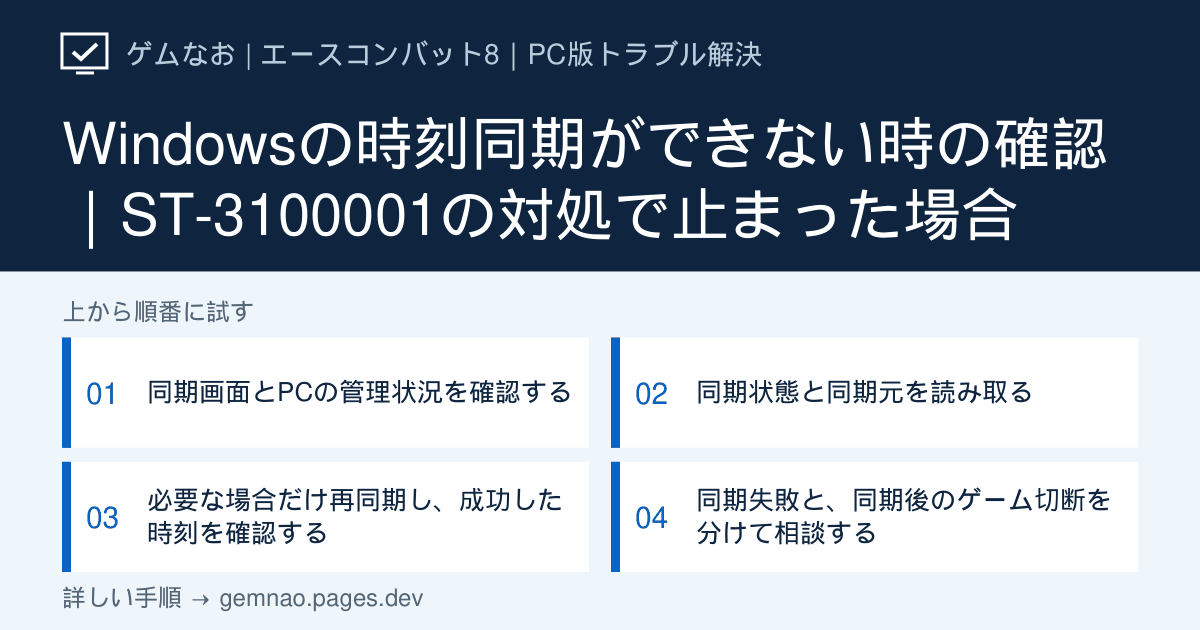
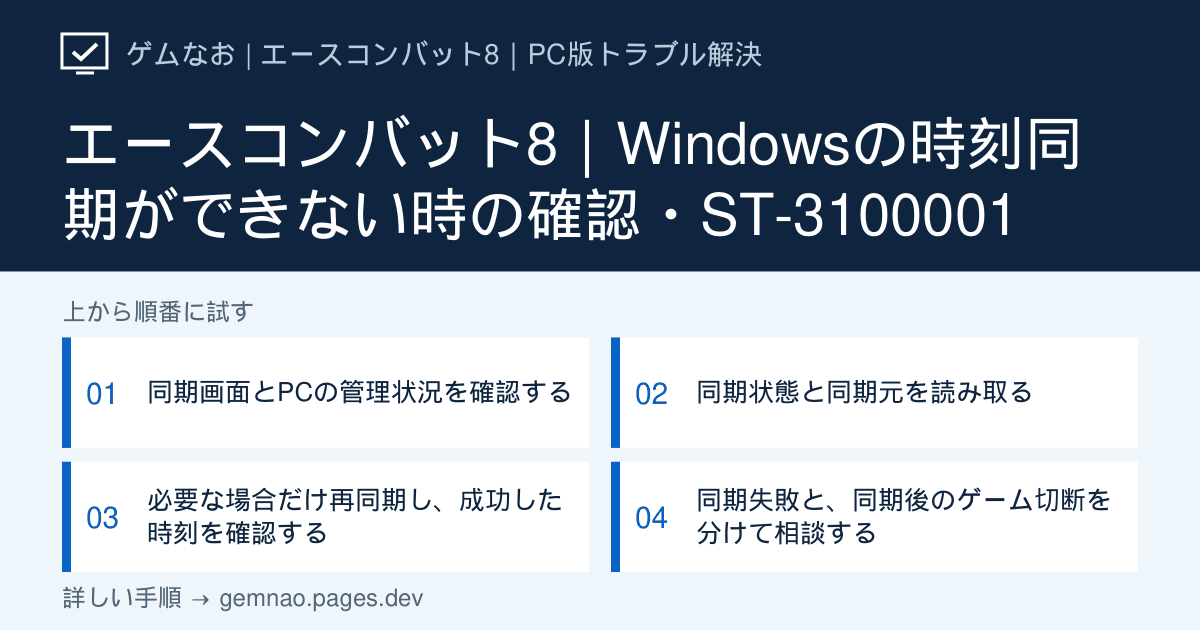
Clarify AC8 titles, surface recent guides, and correct Windows 10 summary
Add the game name to two Japanese ST-3100001 follow-up titles and OG cards.
Show three recently updated guides beside home search with locale-safe links.
Exclude unknown Windows 10 support from roundup summaries and reconcile
October OS notes with current Steam listings.

Changed region(s): [[0.0308, 0.181, 0.925, 0.2714], [0.0308, 0.3016, 0.8633, 0.3921]]

diff --git a/lib/release-roundups.ts b/lib/release-roundups.ts
@@ -50,8 +50,8 @@ export const releaseRoundups: ReleaseRoundup[] = [
     shortTitle: '2026年10月の新作',
     description:
       '2026年10月に発売・サービス開始する新作PCゲーム11本の動作環境を1つの表に整理。レイトレーシング対応GPU、Windows 11、TPM 2.0など「起動できない」原因になる必須条件と、GTX 1660・Windows 10で遊べるかの目安をまとめました。',
-    lead: '発売日に「起動しない」と困らないように、購入前に確認したい必須条件をまとめました。',
-    checkedAt: '2026-10-03',
+    lead: '発売日に「起動しない」と困らないように、購入前に確認したい必須条件をまとめました。10月13日はテイルズとステューピッドのOS表記を再確認しました。',
+    checkedAt: '2026-10-13',
     games: [
       {
         name: '真・三國無双２ with 猛将伝 Remastered',
@@ -183,9 +183,9 @@ export const releaseRoundups: ReleaseRoundup[] = [
         spec: { gpu: ['gtx-650-ti'], ramGb: 4, windows11: true },
         gtx1660: 'yes',
         gtx1660Note: '最低環境のGTX 650 Tiより上',
-        win10: 'partial',
+        win10: 'unknown',
         win10Note:
-          '動作環境の表記はWindows 11。DirectX 12にはWindows 10（1809以降）とVRAM 4GB以上が必要との注記あり',
+          '最低・推奨OSはWindows 11。一方、推奨欄のDX12注記はWindows 10（1809以降）とVRAM 4GB以上。表記が一致しないためWindows 10対応は未確認。購入前に販売元へ確認（10月13日確認）',
         article: {
           href: '/games/tales-of-eternia-remastered/not-launching',
           label: '起動しない・DirectX 12とVRAMの確認',
@@ -195,16 +195,16 @@ export const releaseRoundups: ReleaseRoundup[] = [
       {
         name: 'ステューピッド・ネバー・ダイズ',
         date: '10月22日',
-        os: '記載なし（推奨はWindows 11）',
+        os: 'Windows 11（最低・推奨）',
         minGpu: 'GTX 1070・RTX 3050・RX 580（8GB）',
         memory: '16GB',
-        storage: '記載なし',
-        must: ['VRAM 8GB'],
-        spec: { gpu: ['gtx-1070'], vramGb: 8, ramGb: 16 },
+        storage: '22GB',
+        must: ['VRAM 8GB', 'Windows 11'],
+        spec: { gpu: ['gtx-1070'], vramGb: 8, ramGb: 16, windows11: true },
         gtx1660: 'no',
         gtx1660Note: '最低環境のGPUはVRAM 8GBで、GTX 1660（6GB）は下回る',
-        win10: 'unknown',
-        win10Note: '最低環境のOSは記載なし',
+        win10: 'no',
+        win10Note: 'Steamの最低・推奨OSはWindows 11。Windows 10は掲載された最低OSを満たさない（10月13日確認）',
         source: steam('3486530'),
       },
       {
@@ -276,7 +276,7 @@ export const releaseRoundups: ReleaseRoundup[] = [
       {
         question: 'Windows 10で遊べる10月の新作はどれですか？',
         answer:
-          '動作環境の表記上、Windows 10で遊べるのはAION2、Gears of War: E-Day（22H2以降）、Call of Duty: Modern Warfare 4（22H2以降で、TPM 2.0とセキュアブートが必要）、Phantom Blade Zero（64bit）です。ほかの多くはWindows 11と記載されています。',
+          '最低OSにWindows 10の記載があるのはAION2、Gears of War: E-Day（22H2以降）、Call of Duty: Modern Warfare 4（22H2以降で、TPM 2.0とセキュアブートが必要）、Phantom Blade Zero（64bit）です。OS表記だけで動作を保証するものではありません。テイルズはOS欄とDX12注記が一致せず、Windows 10対応は未確認。ステューピッド・ネバー・ダイズは最低・推奨OSがWindows 11です。',
       },
       {
         question:

diff --git a/app/new-releases/[slug]/page.tsx b/app/new-releases/[slug]/page.tsx
@@ -74,7 +74,10 @@ export default async function Page({
   const path = `/new-releases/${slug}`;
   const canonical = `https://gemnao.pages.dev${path}`;
   const blocked1660 = roundup.games.filter((game) => game.gtx1660 === 'no');
-  const win10 = roundup.games.filter((game) => game.win10 !== 'no');
+  const win10 = roundup.games.filter(
+    (game) => game.win10 === 'yes' || game.win10 === 'partial',
+  );
+  const win10Unknown = roundup.games.filter((game) => game.win10 === 'unknown');
   const special = roundup.games.filter((game) =>
     game.must.some((item) => SPECIAL.test(item)),
   );
@@ -170,9 +173,13 @@ export default async function Page({
                 <dd>{blocked1660.map((game) => game.name).join('、')}</dd>
               </div>
               <div>
-                <dt>Windows 10で遊べる（条件付きを含む）</dt>
+                <dt>最低OSにWindows 10の記載あり（追加条件は表で確認）</dt>
                 <dd>{win10.map((game) => game.name).join('、')}</dd>
               </div>
+              {win10Unknown.length > 0 && <div>
+                <dt>Windows 10対応を確認できない</dt>
+                <dd>{win10Unknown.map((game) => game.name).join('、')}。未記載や表記の不一致は対応の根拠にできません。</dd>
+              </div>}
               <div>
                 <dt>特別な必須条件がある</dt>
                 <dd>
@@ -252,7 +259,7 @@ export default async function Page({
           >
             <h2 id="fit-title">GTX 1660・Windows 10で遊べる？（目安）</h2>
             <p>
-              ○＝最低環境を満たす目安、△＝条件付き、×＝満たさない、？＝記載なし。GPUは、最低環境のGPUとの世代・VRAMを編集部が比べた目安です。快適に遊べるかは推奨環境も確認してください。「あなたのPC」は
+              ○＝最低環境を満たす目安、△＝条件付き、×＝満たさない、？＝未確認（未記載・表記の不一致を含む）。OSの記載は動作保証ではありません。GPUは、最低環境のGPUとの世代・VRAMを編集部が比べた目安です。快適に遊べるかは推奨環境も確認してください。「あなたのPC」は
               <a href="/my#my-pc">マイPC</a>
               に登録したGPU・メモリ・Windowsで判定します（GPUの性能は目安。TPMやSSDなどは表の必須条件を確認してください）。
             </p>

diff --git a/lib/followups/connection.ts b/lib/followups/connection.ts
@@ -39,10 +39,10 @@ export const connectionGuide: FollowupGuide = {
   copy: {
     ja: {
       title:
-        'ST-3100001が時刻同期後も出る時は？回線・公式告知・発生場面の切り分け',
-      shortTitle: '時刻同期後も接続が切れる',
+        'エースコンバット8｜時刻同期後もST-3100001が出る時の回線・公式告知の確認',
+      shortTitle: 'エースコンバット8・時刻同期後も接続が切れる',
       description:
-        'ACE COMBAT 8でWindows時刻同期後も接続が切れる場合、ロビー・試合・結果画面を区別。日付付きの公式告知、別端末、有線とWi-Fiの比較から次の確認先を絞ります。',
+        'エースコンバット8でWindows時刻同期後もST-3100001や切断が続く場合、ロビー・試合・結果画面を区別。日付付きの公式告知、別端末、有線とWi-Fiの比較から次の確認先を絞ります。',
       lead: 'Windowsの時刻同期成功を確認しても、ACE COMBAT ONLINEでST-3100001や切断が続く場合向けです。アプリ自体が終了するクラッシュ、Windowsの同期自体の失敗は別に確認します。',
       summary:
         '発生場面と時刻を記録し、該当する最新の公式告知を確認します。次に同じ回線の別端末や有線接続と比べ、ゲームだけ・このPCだけ・回線全体のどこまで影響するかを整理してください。ゲームだけ失敗してもサーバー障害とは断定できず、告知がないことも正常の証明にはなりません。',

diff --git a/components/localized-home.tsx b/components/localized-home.tsx
@@ -1,5 +1,6 @@
 import { ContinueNotes } from './continue-notes';
 import { EnglishHomeSearch } from './english-home-search';
+import { LatestArticles } from './latest-articles';
 /* oxlint-disable next/no-html-link-for-pages -- Native links avoid a vinext client-link runtime issue. */
 import { ArrowRight, ChevronRight, Wrench } from 'lucide-react';
 import { gearGuidesEn } from '@/lib/localized/gear-guides-en';
@@ -51,6 +52,18 @@ export function LocalizedHome({ locale }: { locale: Locale }) {
         ...gearGuidesEn.map(guide => ({href: `/en/gear/${guide.slug}`, title: guide.title, label: 'Before you buy', body: guide.description || ''})),
         {href: '/en/tools/windows-diagnosis', title: 'Windows game diagnosis: instructions and download', label: 'Windows prototype', body: 'Game launch, crash, black screen, freeze, low FPS and stutter. Windows 11 x64.'},
       ]} />}
+      <LatestArticles locale={locale} articles={[...articles]
+        .sort((a, b) => b.checkedAt.localeCompare(a.checkedAt))
+        .slice(0, 3)
+        .map(article => ({
+          href: article.gameSlug === 'discord'
+            ? `/${locale}/discord/${article.slug}`
+            : `/${locale}/games/${article.gameSlug}/${article.slug}`,
+          title: article.title,
+          checkedAt: article.checkedAt,
+          label: article.gameSlug === 'discord' ? 'Discord'
+            : article.gameName || gameFacts[article.gameSlug].names[locale],
+        }))} />
       <ContinueNotes locale={locale} />
       <div className="content home-my-shortcut">
         <MyGamesHomeEntry locale={locale} />

diff --git a/lib/followups/time-sync.ts b/lib/followups/time-sync.ts
@@ -30,10 +30,10 @@ export const timeSyncGuide: FollowupGuide = {
   copy: {
     ja: {
       title:
-        'Windowsの時刻同期ができない時の確認｜ST-3100001の対処で止まった場合',
-      shortTitle: 'Windowsの時刻同期に失敗',
+        'エースコンバット8｜Windowsの時刻同期ができない時の確認・ST-3100001',
+      shortTitle: 'エースコンバット8・Windowsの時刻同期に失敗',
       description:
-        '「今すぐ同期」が失敗する時に、実際のエラー・最終同期時刻・同期元を確認。W32Timeの停止表示と同期失敗を区別し、管理PCでは設定を変更せず相談します。',
+        'エースコンバット8のST-3100001対処で「今すぐ同期」が失敗する時に、エラー・最終同期時刻・同期元を確認。W32Timeの停止表示と同期失敗を区別し、管理PCでは設定を変更せず相談します。',
       lead: 'ST-3100001の時刻確認で、Windows 11の同期自体が失敗する人向けです。同期は成功したのにゲームだけ切断される場合は、接続の切り分け記事へ進んでください。',
       summary:
         '同期画面のエラーと最終成功時刻を先に確認します。自分で管理するPCならw32tmのstatusとsourceで状況を読み、必要な場合だけ再同期します。「サービスが停止中」や時差測定の結果だけで原因・成功を決めず、同期成功後もゲームが切れる場合は回線と公式告知の確認へ切り替えます。',

diff --git a/components/latest-articles.tsx b/components/latest-articles.tsx
@@ -1,0 +1,37 @@
+/* oxlint-disable next/no-html-link-for-pages -- Preserve native, language-specific article URLs. */
+import type { Locale } from '@/lib/i18n';
+
+const labels = {
+  ja: { title: '最近更新した3記事', all: '記事をすべて見る' },
+  en: { title: '3 recently updated guides', all: 'See all guides' },
+  zh: { title: '最近更新的3篇指南', all: '查看全部指南' },
+  es: { title: '3 guías actualizadas recientemente', all: 'Ver todas las guías' },
+};
+
+export function LatestArticles({ articles, locale = 'ja' }: {
+  articles: { href: string; title: string; checkedAt: string; label?: string }[];
+  locale?: 'ja' | Locale;
+}) {
+  const t = labels[locale];
+  return (
+    <section className="content home-latest" aria-labelledby="home-latest-title">
+      <div className="home-latest-heading">
+        <h2 id="home-latest-title">{t.title}</h2>
+        <a href={locale === 'ja' ? '/?view=articles#articles' : `/${locale}#articles`}>
+          {t.all} <span aria-hidden="true">→</span>
+        </a>
+      </div>
+      <ol>
+        {articles.map(article => (
+          <li key={article.href}>
+            <a href={article.href}>
+              {article.label && <span>{article.label}</span>}
+              <strong>{article.title}</strong>
+              <time dateTime={article.checkedAt}>{article.checkedAt}</time>
+            </a>
+          </li>
+        ))}
+      </ol>
+    </section>
+  );
+}

diff --git a/app/globals.css b/app/globals.css
@@ -5451,3 +5451,20 @@ a.my-games-primary {
 .hero-searching ~ .content {
   padding-top: 24px;
 }
+
+.home-latest.content { padding-top: 20px; padding-bottom: 20px; }
+.home-latest-heading { display: flex; align-items: center; justify-content: space-between; gap: 8px 20px; flex-wrap: wrap; margin-bottom: 12px; }
+.home-latest h2 { margin: 0; font-size: 18px; }
+.home-latest-heading > a { display: inline-flex; align-items: center; min-height: 44px; color: var(--blue); font-size: 14px; font-weight: 700; }
+.home-latest ol { display: grid; grid-template-columns: repeat(3, minmax(0, 1fr)); gap: 12px; margin: 0; padding: 0; list-style: none; }
+.home-latest li { min-width: 0; }
+.home-latest li a { display: flex; flex-direction: column; justify-content: space-between; gap: 8px; height: 100%; min-height: 44px; padding: 14px; border: 1px solid var(--line); border-radius: 8px; background: #fff; color: var(--ink); overflow-wrap: anywhere; }
+.home-latest strong { font-size: 15px; line-height: 1.6; }
+.home-latest li span { color: var(--muted); font-size: 12px; line-height: 1.5; }
+.home-latest time { color: var(--muted); font-size: 12px; }
+.home-latest a:hover { text-decoration: underline; text-underline-offset: 3px; }
+.home-latest a:focus-visible { outline: 3px solid var(--blue); outline-offset: 3px; }
+@media (max-width: 760px) {
+  .home-latest ol { grid-template-columns: 1fr; gap: 8px; }
+  .home-latest li a { padding: 12px 14px; }
+}

diff --git a/components/wiki-home.tsx b/components/wiki-home.tsx
@@ -1,5 +1,6 @@
 'use client';
 import { useSearchQuery } from './use-search-query';
+import { LatestArticles } from './latest-articles';
 /* oxlint-disable next/no-html-link-for-pages -- Native links avoid a vinext client-link runtime issue. */
 
 import { useEffect, useMemo, useRef } from 'react';
@@ -105,6 +106,7 @@ export function WikiHome({
     .filter((guide): guide is NonNullable<typeof guide> => Boolean(guide));
   const searchResultCount = displayedGames.length + displayedArticleCount;
   const noSearchResults = isSearching && searchResultCount === 0;
+  const showLatestArticles = !view && !isSearching && !isArticleFiltering;
 
   useEffect(() => {
     const normalized = normalizeSearchQuery(query);
@@ -220,6 +222,8 @@ export function WikiHome({
           </output>
         ) : null}
       </section>
+      {showLatestArticles && <LatestArticles articles={visibleArticles
+        .filter(article => article.kind === 'game').slice(0, 3)} />}
       {!isSearching ? <DiagnosisCta home /> : null}
 
       {!isSearching && (
@@ -455,7 +459,7 @@ export function WikiHome({
         </section>
       )}
 
-      {(displayedArticleCount > 0 || view === 'articles') && (
+      {!showLatestArticles && (displayedArticleCount > 0 || view === 'articles') && (
         <section
           className="content article-index"
           id="articles"

diff --git a/lib/og-image-manifest.ts b/lib/og-image-manifest.ts
@@ -114,11 +114,11 @@ export const ogImageManifest: Record<string, string> = {
   "/es/games/valorant/van9001": "9b45de19",
   "/es/games/valorant/van9003": "d42f36bc",
   "/es/pc/repair-or-replace": "6d230706",
-  "/games/ace-combat-8": "62429dfa",
-  "/games/ace-combat-8/connection-after-time-sync": "bd6645e7",
+  "/games/ace-combat-8": "bf3bb116",
+  "/games/ace-combat-8/connection-after-time-sync": "129b2f4d",
   "/games/ace-combat-8/error-st-3100001": "0e833e71",
   "/games/ace-combat-8/not-launching": "a392a29c",
-  "/games/ace-combat-8/time-sync-failed": "27864a11",
+  "/games/ace-combat-8/time-sync-failed": "52d382df",
   "/games/aion2": "c1b351f2",
   "/games/aion2/login-error": "db0fe781",
   "/games/aniimo": "91ec9e8d",
